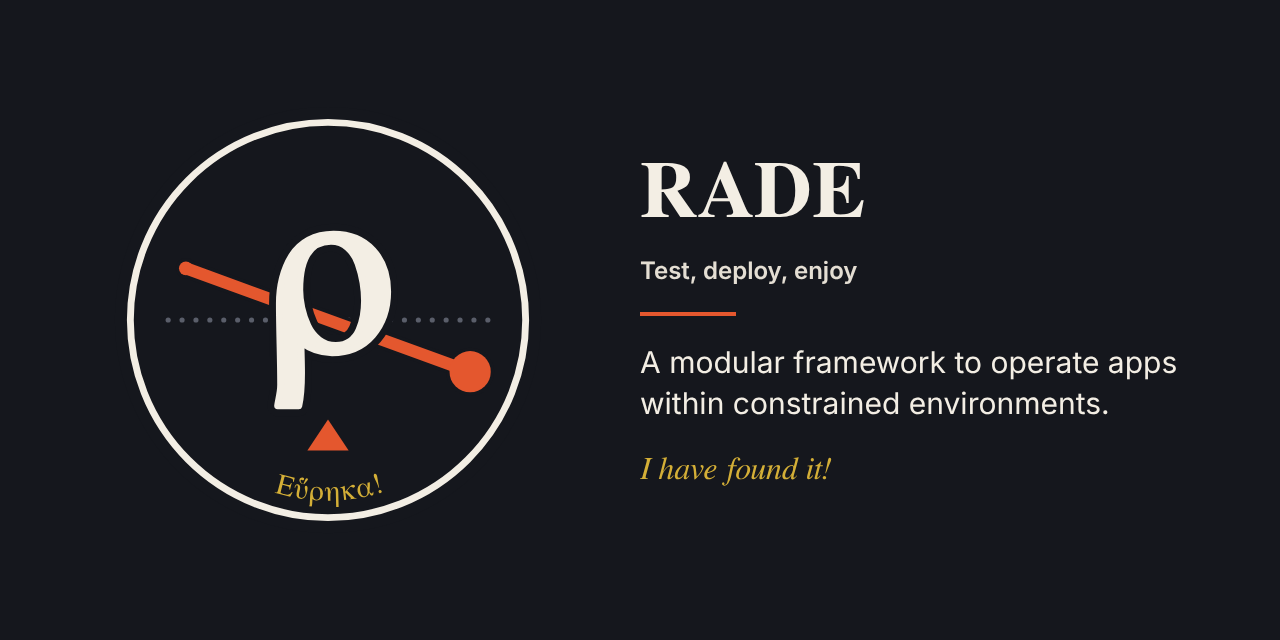
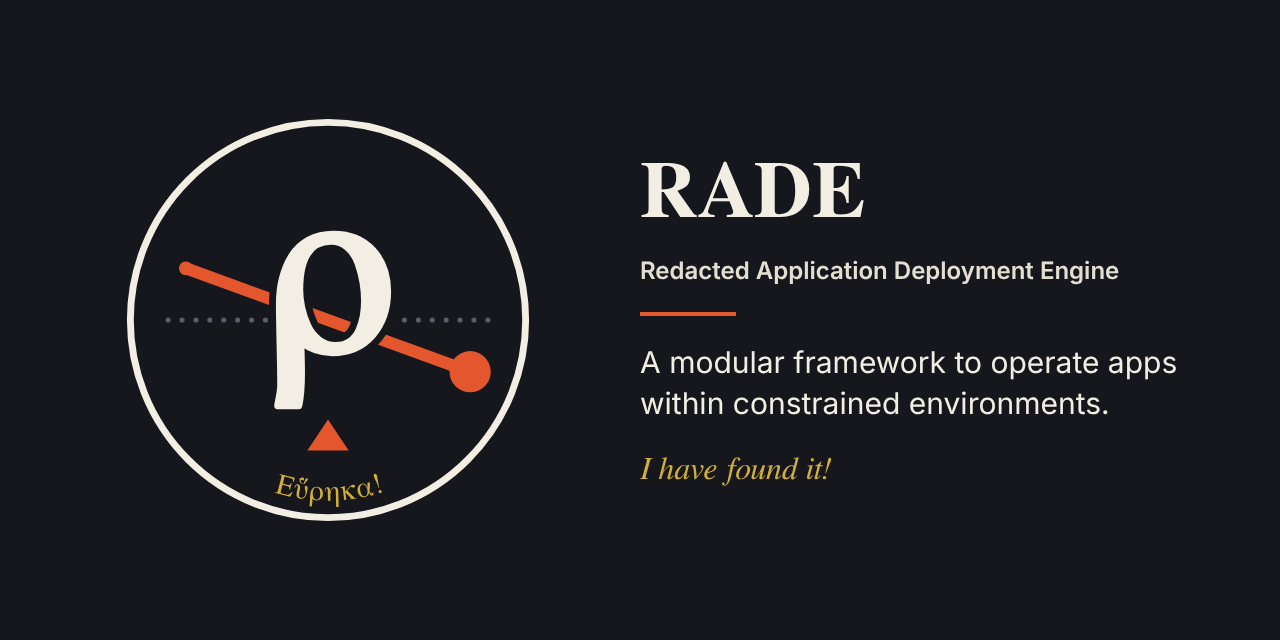
RADE card: line 2 back to "Redacted Application Deployment Engine"
The Maintainer asked (2026-11-26). The card data also uses the new repo names
(kanon, ion, rade, icf-source).

Claude-Session: https://claude.ai/code/session_01PyXpdSD9Vrbifvr1Bafxro

Changed region(s): [[0.5, 0.4062, 0.875, 0.4375]]

diff --git a/README.md b/README.md
@@ -1,4 +1,4 @@
-![RADE: Test, deploy, enjoy](docs/assets/RADE-social-preview.png)
+![RADE: Redacted Application Deployment Engine](docs/assets/RADE-social-preview.png)
 
 # RADE
 <p><b>Redacted Application Deployment Engine</b></p>
